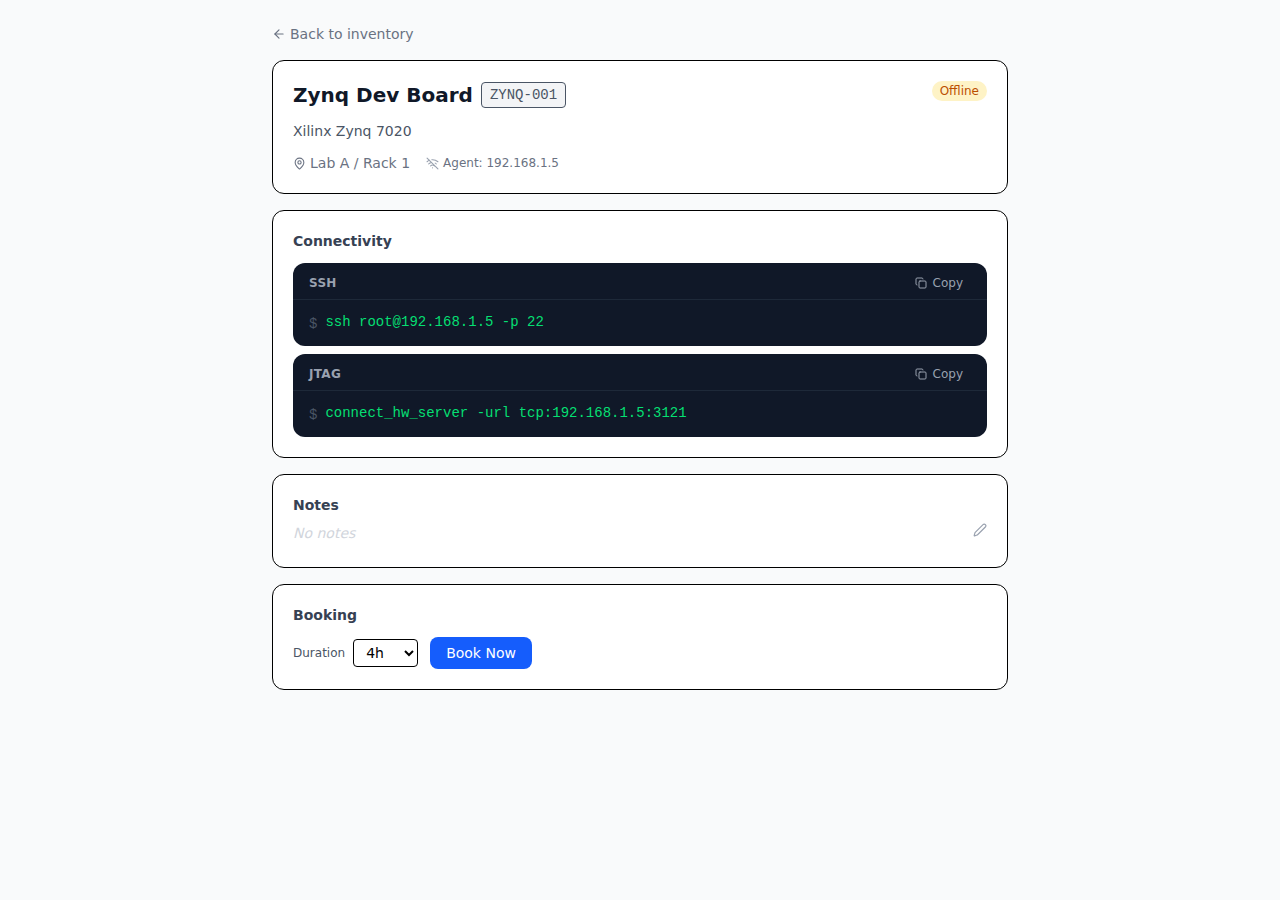
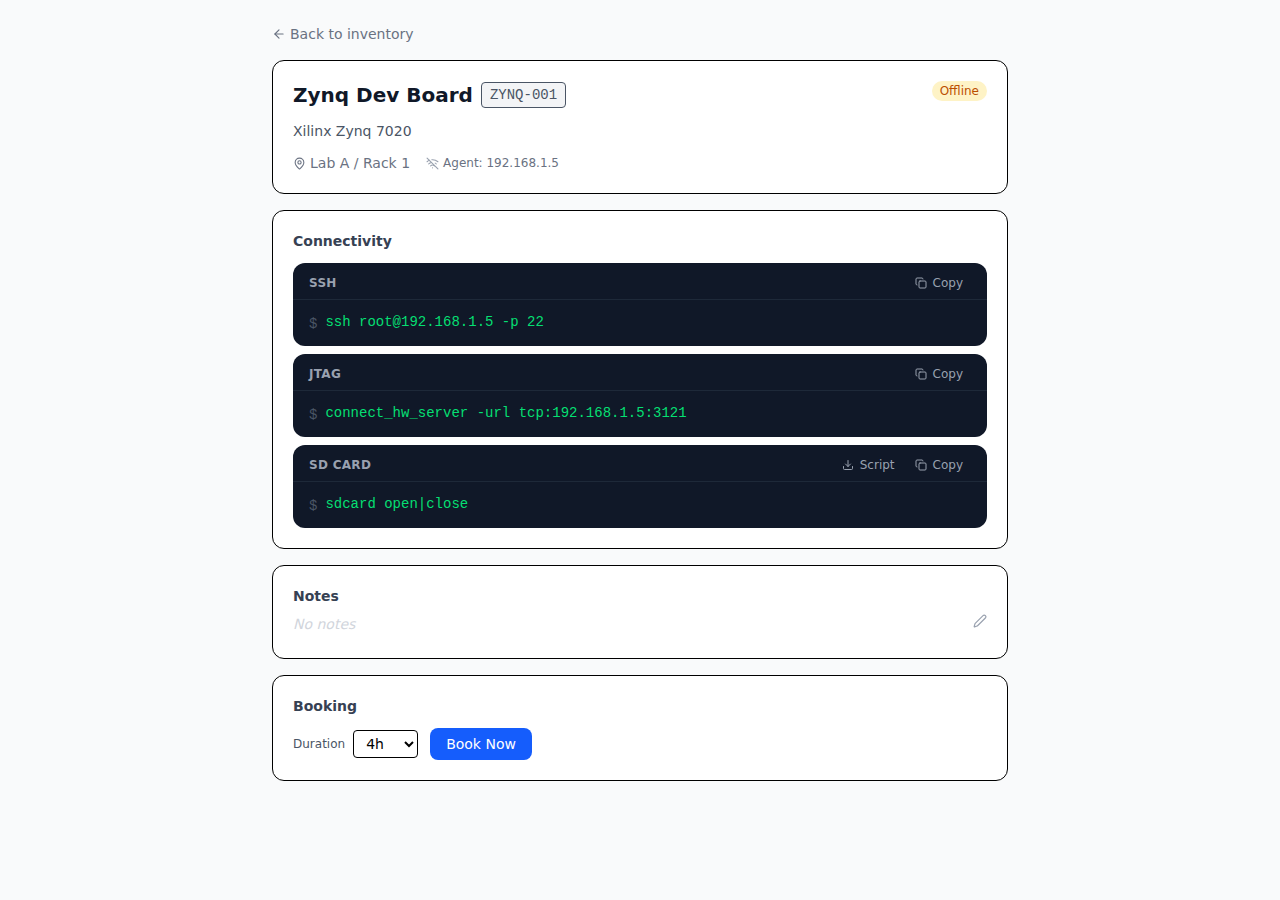
Add script download buttons to device detail connectivity section
UART row: adds a Download button that generates a pre-filled uart-connect
script with AGENT_HOST, UART_DEVICE and DEVICE_ID baked in, named
uart-connect-<device_id>.

SD Card row: new row shown whenever host_ip is configured. Displays
"sdcard open|close" usage and downloads a pre-filled sdcard script with
HOST set to vivado@<host_ip> and LOCAL_MNT to $HOME/sdcard-<device_id>.

https://claude.ai/code/session_01GABJSn9qP5pQbQ7Q7k4QpR

Changed region(s): [[0.2188, 0.4667, 0.7812, 0.7467], [0.2188, 0.7778, 0.4375, 0.8711]]

diff --git a/frontend/src/pages/DeviceDetailPage.tsx b/frontend/src/pages/DeviceDetailPage.tsx
@@ -1,5 +1,5 @@
 import { useMutation, useQuery, useQueryClient } from '@tanstack/react-query';
-import { ArrowLeft, Check, Copy, MapPin, Usb, Wifi, WifiOff } from 'lucide-react';
+import { ArrowLeft, Check, Copy, Download, MapPin, Usb, Wifi, WifiOff } from 'lucide-react';
 import { useState } from 'react';
 import { Link, useParams } from 'react-router-dom';
 import {
@@ -15,7 +15,75 @@ import BookingTimer from '../components/BookingTimer';
 import ConnectionCommands from '../components/ConnectionCommands';
 import StatusBadge from '../components/StatusBadge';
 
-function ShellLine({ label, cmd }: { label: string; cmd: string }) {
+function downloadFile(filename: string, content: string) {
+  const blob = new Blob([content], { type: 'text/plain' });
+  const url = URL.createObjectURL(blob);
+  const a = document.createElement('a');
+  a.href = url;
+  a.download = filename;
+  a.click();
+  URL.revokeObjectURL(url);
+}
+
+function uartConnectScript(agentHost: string, uartDevice: string, deviceId: string): string {
+  const localPty = `/dev/tty${deviceId}`;
+  return `#!/bin/sh
+set -eu
+# Pre-configured for ${deviceId}
+
+echo "Bridging ${agentHost}:${uartDevice} -> ${localPty}"
+echo "Press Ctrl-C to disconnect."
+
+exec sudo socat \\
+    "pty,link=${localPty},rawer" \\
+    "EXEC:ssh ${agentHost} socat - ${uartDevice}\\,rawer"
+`;
+}
+
+function sdcardScript(host: string, deviceId: string): string {
+  return `#!/bin/sh
+set -eu
+# Pre-configured for ${deviceId}
+
+HOST="${host}"
+LOCAL_MNT="$HOME/sdcard-${deviceId}"
+
+case "$1" in
+  open)
+    mkdir -p "$LOCAL_MNT"
+    REMOTE_MNT="$(ssh "$HOST" sudo /usr/local/sbin/sdcard-acquire | tail -n 1)"
+    sshfs "$HOST:$REMOTE_MNT" "$LOCAL_MNT" \\
+      -o reconnect \\
+      -o ServerAliveInterval=15 \\
+      -o ServerAliveCountMax=3
+    echo "SD card available at $LOCAL_MNT"
+    ;;
+
+  close)
+    if mountpoint -q "$LOCAL_MNT"; then
+        fusermount -u "$LOCAL_MNT" 2>/dev/null || fusermount3 -u "$LOCAL_MNT"
+    fi
+    ssh "$HOST" sudo /usr/local/sbin/sdcard-release
+    echo "SD card released to DUT"
+    ;;
+
+  *)
+    echo "Usage: $0 open|close"
+    exit 1
+    ;;
+esac
+`;
+}
+
+function ShellLine({
+  label,
+  cmd,
+  download,
+}: {
+  label: string;
+  cmd: string;
+  download?: { filename: string; content: string };
+}) {
   const [copied, setCopied] = useState(false);
   function copy() {
     navigator.clipboard.writeText(cmd).then(() => {
@@ -27,13 +95,24 @@ function ShellLine({ label, cmd }: { label: string; cmd: string }) {
     <div className="bg-gray-900 rounded-xl overflow-hidden">
       <div className="flex items-center justify-between px-4 pt-2.5 pb-1.5 border-b border-gray-800">
         <span className="text-xs font-semibold text-gray-400 uppercase tracking-wide">{label}</span>
-        <button
-          onClick={copy}
-          className="flex items-center gap-1.5 text-xs text-gray-400 hover:text-white transition-colors px-2 py-0.5 rounded hover:bg-gray-700"
-          title="Copy"
-        >
-          {copied ? <><Check size={12} className="text-green-400" /><span className="text-green-400">Copied</span></> : <><Copy size={12} /><span>Copy</span></>}
-        </button>
+        <div className="flex items-center gap-1">
+          {download && (
+            <button
+              onClick={() => downloadFile(download.filename, download.content)}
+              className="flex items-center gap-1.5 text-xs text-gray-400 hover:text-white transition-colors px-2 py-0.5 rounded hover:bg-gray-700"
+              title="Download script"
+            >
+              <Download size={12} /><span>Script</span>
+            </button>
+          )}
+          <button
+            onClick={copy}
+            className="flex items-center gap-1.5 text-xs text-gray-400 hover:text-white transition-colors px-2 py-0.5 rounded hover:bg-gray-700"
+            title="Copy"
+          >
+            {copied ? <><Check size={12} className="text-green-400" /><span className="text-green-400">Copied</span></> : <><Copy size={12} /><span>Copy</span></>}
+          </button>
+        </div>
       </div>
       <div className="flex items-start gap-2 px-4 py-3">
         <span className="text-gray-600 select-none font-mono text-sm mt-0.5">$</span>
@@ -201,7 +280,7 @@ export default function DeviceDetailPage() {
         )}
 
         {/* Connectivity */}
-        {(device.ssh_port > 0 || (device.uart_device && device.host_ip) || device.jtag_port > 0 || device.power_script) && (
+        {(device.ssh_port > 0 || (device.uart_device && device.host_ip) || device.jtag_port > 0 || device.power_script || !!device.host_ip) && (
           <div className="bg-white rounded-xl border p-5 mb-4">
             <h2 className="text-sm font-semibold text-gray-700 mb-3">Connectivity</h2>
             <div className="flex flex-col gap-2">
@@ -215,6 +294,10 @@ export default function DeviceDetailPage() {
                 <ShellLine
                   label="UART"
                   cmd={`sudo socat pty,link=/dev/tty${device.device_id},rawer EXEC:"ssh vivado@${device.host_ip} socat - ${device.uart_device},rawer"`}
+                  download={{
+                    filename: `uart-connect-${device.device_id}`,
+                    content: uartConnectScript(`vivado@${device.host_ip}`, device.uart_device, device.device_id),
+                  }}
                 />
               )}
               {device.jtag_port > 0 && (
@@ -227,6 +310,16 @@ export default function DeviceDetailPage() {
                 <ShellLine
                   label="Power"
                   cmd={`python3 ${device.power_script} --action on`}
+                />
+              )}
+              {device.host_ip && (
+                <ShellLine
+                  label="SD Card"
+                  cmd="sdcard open|close"
+                  download={{
+                    filename: `sdcard-${device.device_id}`,
+                    content: sdcardScript(`vivado@${device.host_ip}`, device.device_id),
+                  }}
                 />
               )}
             </div>
